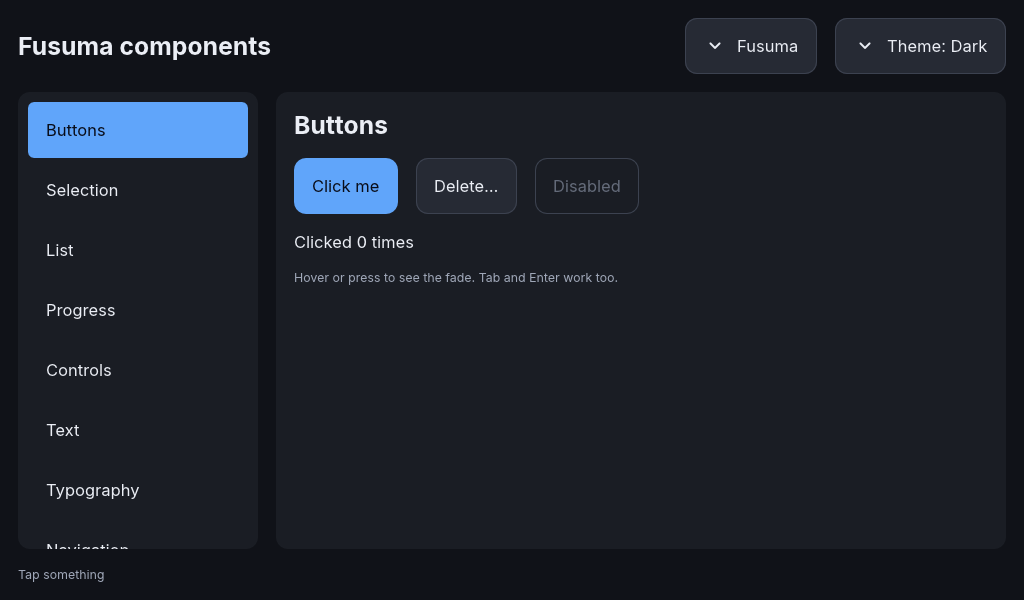
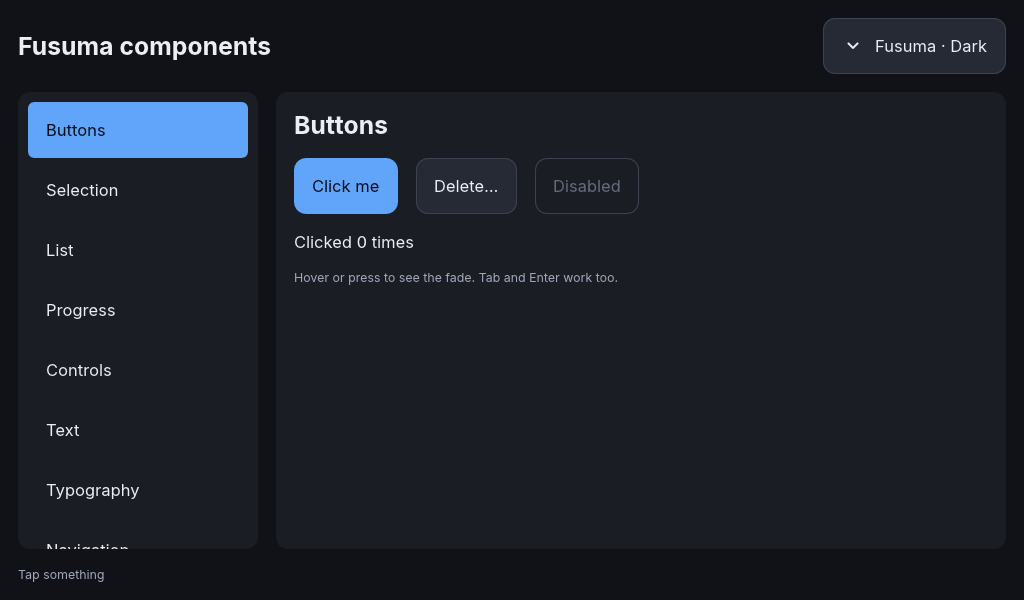
feat(showcase): one dropdown for dark/light and every palette

Changed region(s): [[0.6562, 0.03, 0.9688, 0.15]]

diff --git a/examples/showcase/src/lib.rs b/examples/showcase/src/lib.rs
@@ -91,14 +91,17 @@ fn palette_button_text(palette: &Palette) -> &'static str {
     }
 }
 
-/// The text of the theme dropdown's button: the mode that is on, with a label in the wide layout.
-const fn theme_button_text(dark: bool, compact: bool) -> &'static str {
-    match (dark, compact) {
-        (true, false) => "Theme: Dark",
-        (false, false) => "Theme: Light",
-        (true, true) => "Dark",
-        (false, true) => "Light",
+/// The text of the theme dropdown's button: the palette and the mode that are on (a watch has the mode only: its
+/// palette is a tile of the home screen).
+fn theme_button_text(palette: &Palette, dark: bool, watch: bool) -> Buf {
+    let mut b = Buf::new();
+    let mode = if dark { "Dark" } else { "Light" };
+    if watch {
+        let _ = write!(b, "{mode}");
+    } else {
+        let _ = write!(b, "{} \u{b7} {mode}", palette_button_text(palette));
     }
+    b
 }
 
 /// The names of a palette's row in the palette dropdown.
@@ -266,11 +269,10 @@ pub struct Showcase {
     content: Option<NodeId>,
     theme_button: Option<NodeId>,
     palette_button: Option<NodeId>,
-    /// The dropdowns: a menu of Dark and Light under the theme button, and one of the palettes under the palette
-    /// button (a watch cycles the palettes with its tile instead).
+    /// The dropdown under the theme button: Dark and Light, and the palettes (a watch's menu has the modes only; its
+    /// palette tile steps through them).
     theme_menu: Option<NodeId>,
     theme_rows: [Option<NodeId>; 2],
-    palette_menu: Option<NodeId>,
     palette_rows: [Option<NodeId>; 7],
     status: Option<NodeId>,
     live: Live,
@@ -316,7 +318,6 @@ impl Showcase {
             palette_button: None,
             theme_menu: None,
             theme_rows: [None; 2],
-            palette_menu: None,
             palette_rows: [None; 7],
             status: None,
             live: Live::default(),
@@ -596,7 +597,7 @@ impl Showcase {
             )?;
         }
         t.spacer(Some(header), Style::new().width(Length::Fill(1)))?;
-        (self.palette_menu, self.palette_rows) = (None, [None; 7]);
+        self.palette_rows = [None; 7];
         // The chevron of a dropdown, when the icon font has one.
         #[cfg(feature = "fonts")]
         let chevron = fusuma::fonts::FontSet::default_set().icon("expand_more");
@@ -606,22 +607,22 @@ impl Showcase {
             Some(c) => t.button_with_icon(Some(parent), c, text, ButtonVariant::Secondary),
             None => t.button(Some(parent), text, ButtonVariant::Secondary),
         };
-        // On a watch the header has no room for it: it is a tile of the home screen instead.
-        self.palette_button = if class == Class::Watch {
-            None
-        } else {
-            Some(dropdown(t, header, palette_button_text(&self.palette))?)
-        };
-        self.theme_button = Some(dropdown(t, header, theme_button_text(self.dark, compact))?);
-        // The dropdowns' menus: out of the flow, they open under their buttons.
+        // On a watch the header has no room for the palette: it is a tile of the home screen instead (see below).
+        self.palette_button = None;
+        let watch = class == Class::Watch;
+        let label = theme_button_text(&self.palette, self.dark, watch);
+        self.theme_button = Some(dropdown(t, header, label.text())?);
+        // One dropdown for the whole look, a menu out of the flow that opens under its button: the mode (Dark and
+        // Light side by side) and, except on a watch whose menu would not fit, every palette.
         let sp = self.theme.spacing;
         let menu = t.menu(Some(root), Style::new().padding(sp.xs).gap(sp.xs))?;
+        let modes = t.row(Some(menu), Style::new().gap(sp.xs))?;
         for (i, name) in ["Dark", "Light"].into_iter().enumerate() {
-            self.theme_rows[i] = Some(t.list_item(Some(menu), name, (i == 0) == self.dark)?);
+            let id = t.list_item(Some(modes), name, (i == 0) == self.dark)?;
+            t.set_style(id, Style::new().width(Length::Fill(1)));
+            self.theme_rows[i] = Some(id);
         }
-        self.theme_menu = Some(menu);
-        if class != Class::Watch {
-            let menu = t.menu(Some(root), Style::new().padding(sp.xs).gap(sp.xs))?;
+        if !watch {
             for (i, name) in PALETTE_NAMES.into_iter().enumerate() {
                 self.palette_rows[i] = Some(t.list_item(
                     Some(menu),
@@ -629,8 +630,8 @@ impl Showcase {
                     Palette::ALL[i].name == self.palette.name,
                 )?);
             }
-            self.palette_menu = Some(menu);
         }
+        self.theme_menu = Some(menu);
         let body_style = Style::new()
             .height(Length::Fill(1))
             .gap(self.theme.spacing.md)
@@ -1082,12 +1083,21 @@ impl Showcase {
             .with_motion(budget)
     }
 
+    /// The dropdown button says which palette and mode are on.
+    fn refresh_theme_button(&mut self) {
+        if let Some(b) = self.theme_button {
+            let label = theme_button_text(&self.palette, self.dark, self.class == Class::Watch);
+            self.tree.set_text(b, label.text());
+        }
+    }
+
     fn set_palette(&mut self, palette: Palette) {
         self.palette = palette;
         self.theme = self.make_theme();
         if let Some(b) = self.palette_button {
             self.tree.set_text(b, palette_button_text(&palette));
         }
+        self.refresh_theme_button();
         for (row, p) in self.palette_rows.iter().zip(Palette::ALL) {
             if let Some(r) = *row {
                 self.tree.set_checked(r, p.name == palette.name);
@@ -1104,10 +1114,7 @@ impl Showcase {
                 self.tree.set_checked(r, (i == 0) == dark);
             }
         }
-        if let Some(b) = self.theme_button {
-            self.tree
-                .set_text(b, theme_button_text(dark, self.class.is_compact()));
-        }
+        self.refresh_theme_button();
         self.tree.invalidate();
     }
 
@@ -1211,14 +1218,9 @@ impl Showcase {
                         self.set_palette(Palette::ALL[i]);
                         let _ = write!(b, "Colours: {}", self.palette.name);
                     } else if id.is_some() && id == self.palette_button {
-                        match (self.palette_menu, self.palette_button) {
-                            (Some(m), Some(a)) => self.tree.open_menu(m, a),
-                            // A watch has a tile that steps through them.
-                            _ => {
-                                self.set_palette(*self.palette.next());
-                                let _ = write!(b, "Colours: {}", self.palette.name);
-                            }
-                        }
+                        // The watch's tile steps through the palettes.
+                        self.set_palette(*self.palette.next());
+                        let _ = write!(b, "Colours: {}", self.palette.name);
                     } else if id == self.live.click_me {
                         self.clicks += 1;
                         let _ = write!(b, "Clicked {} times", self.clicks);
@@ -1684,7 +1686,7 @@ mod tests {
         assert_eq!(r.pixel(0, 0).unwrap(), light_bg);
         assert_eq!(
             s.tree().text(s.theme_button().unwrap()),
-            Some("Theme: Light")
+            Some("Fusuma \u{b7} Light")
         );
         assert!(
             s.tree().is_checked(s.theme_rows[1].unwrap())
@@ -1695,8 +1697,10 @@ mod tests {
     #[test]
     fn the_palette_button_steps_through_every_palette_and_keeps_dark_or_light() {
         let (mut s, mut r) = app();
-        let target = s.palette_button().unwrap();
-        assert_eq!(s.tree().text(target), Some("Fusuma"));
+        assert_eq!(
+            s.tree().text(s.theme_button().unwrap()),
+            Some("Fusuma \u{b7} Dark")
+        );
         for want in [
             "forest", "ocean", "petrol", "violet", "ember", "graphite", "fusuma",
         ] {
@@ -1716,7 +1720,10 @@ mod tests {
         next_palette(&mut s);
         toggle_theme(&mut s);
         assert_eq!(s.theme().colors, Palette::FOREST.light, "light forest");
-        assert_eq!(s.tree().text(s.palette_button().unwrap()), Some("Forest"));
+        assert_eq!(
+            s.tree().text(s.theme_button().unwrap()),
+            Some("Forest \u{b7} Light")
+        );
     }
 
     #[test]
@@ -1752,7 +1759,10 @@ mod tests {
         s.frame(&mut r).unwrap();
         assert_eq!(r.pixel(0, 0).unwrap(), Palette::PETROL.dark.background);
         assert_eq!(s.theme().colors.primary, Palette::FOREST.dark.primary);
-        assert_eq!(s.tree().text(s.palette_button().unwrap()), Some("Petrol"));
+        assert_eq!(
+            s.tree().text(s.theme_button().unwrap()),
+            Some("Petrol \u{b7} Dark")
+        );
     }
 
     #[test]
@@ -1761,11 +1771,9 @@ mod tests {
         s.key(Key::Next);
         assert_eq!(
             s.tree().focused(),
-            s.palette_button(),
+            s.theme_button(),
             "the header comes first"
         );
-        s.key(Key::Next);
-        assert_eq!(s.tree().focused(), s.theme_button());
         s.key(Key::Next);
         assert_eq!(s.tree().focused(), s.sidebar_item(Page::Buttons));
         s.key(Key::Down);
@@ -2057,12 +2065,15 @@ mod tests {
         assert_eq!((s.page(), s.is_dark()), (Page::Controls, false));
         let mut small = fusuma::renderers::vello_cpu::new(600, 800).unwrap();
         s.frame(&mut small).unwrap();
-        assert_eq!(s.tree().text(s.theme_button().unwrap()), Some("Light"));
+        assert_eq!(
+            s.tree().text(s.theme_button().unwrap()),
+            Some("Fusuma \u{b7} Light")
+        );
         App::resized(&mut s, 1024, 600, 100);
         assert!(!s.is_compact() && s.sidebar_item(Page::Controls).is_some());
         assert_eq!(
             s.tree().text(s.theme_button().unwrap()),
-            Some("Theme: Light")
+            Some("Fusuma \u{b7} Light")
         );
         // A 2x screen of 1280 physical pixels is 640 logical: not compact; 1200 is.
         App::resized(&mut s, 1200, 800, 200);
@@ -2118,18 +2129,20 @@ mod tests {
         tap(s, row);
     }
 
-    /// Opens the palette dropdown (or taps the watch's tile) and picks the palette after the current one.
+    /// Picks the palette after the current one: from the theme dropdown, or by the watch's tile.
     fn next_palette(s: &mut Showcase) {
-        let id = s.palette_button().unwrap();
-        tap(s, id);
-        if s.palette_menu.is_some() {
-            let at = Palette::ALL
-                .iter()
-                .position(|p| p.name == Showcase::palette(s).name)
-                .unwrap();
-            let row = s.palette_rows[(at + 1) % Palette::ALL.len()].unwrap();
-            tap(s, row);
+        if let Some(tile) = s.palette_button() {
+            tap(s, tile);
+            return;
         }
+        let id = s.theme_button().unwrap();
+        tap(s, id);
+        let at = Palette::ALL
+            .iter()
+            .position(|p| p.name == Showcase::palette(s).name)
+            .unwrap();
+        let row = s.palette_rows[(at + 1) % Palette::ALL.len()].unwrap();
+        tap(s, row);
     }
 
     #[test]
@@ -2720,22 +2733,15 @@ mod tests {
         let Ok(dir) = std::env::var("FUSUMA_SHOWCASE_PNG") else {
             return;
         };
-        for (name, palette_menu) in [("theme", false), ("palette", true)] {
-            let (mut s, mut r) = app();
-            let b = if palette_menu {
-                s.palette_button()
-            } else {
-                s.theme_button()
-            }
-            .unwrap();
-            tap(&mut s, b);
-            App::tick(&mut s, 1000);
-            s.frame(&mut r).unwrap();
-            std::fs::write(
-                std::format!("{dir}/dropdown-{name}.png"),
-                fusuma::renderers::vello_cpu::png(&r).unwrap(),
-            )
-            .unwrap();
-        }
+        let (mut s, mut r) = app();
+        let b = s.theme_button().unwrap();
+        tap(&mut s, b);
+        App::tick(&mut s, 1000);
+        s.frame(&mut r).unwrap();
+        std::fs::write(
+            std::format!("{dir}/dropdown.png"),
+            fusuma::renderers::vello_cpu::png(&r).unwrap(),
+        )
+        .unwrap();
     }
 }
